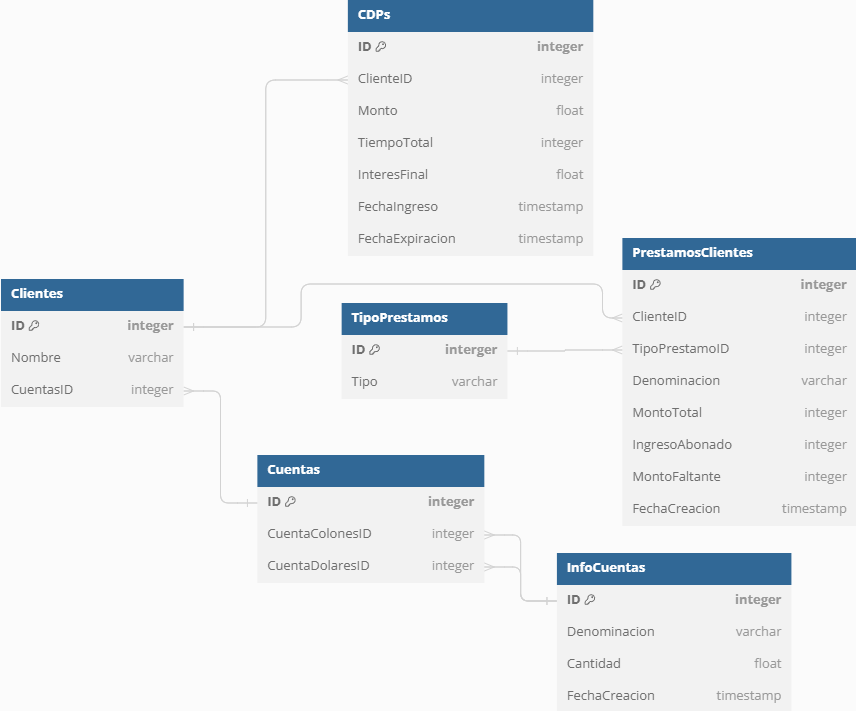
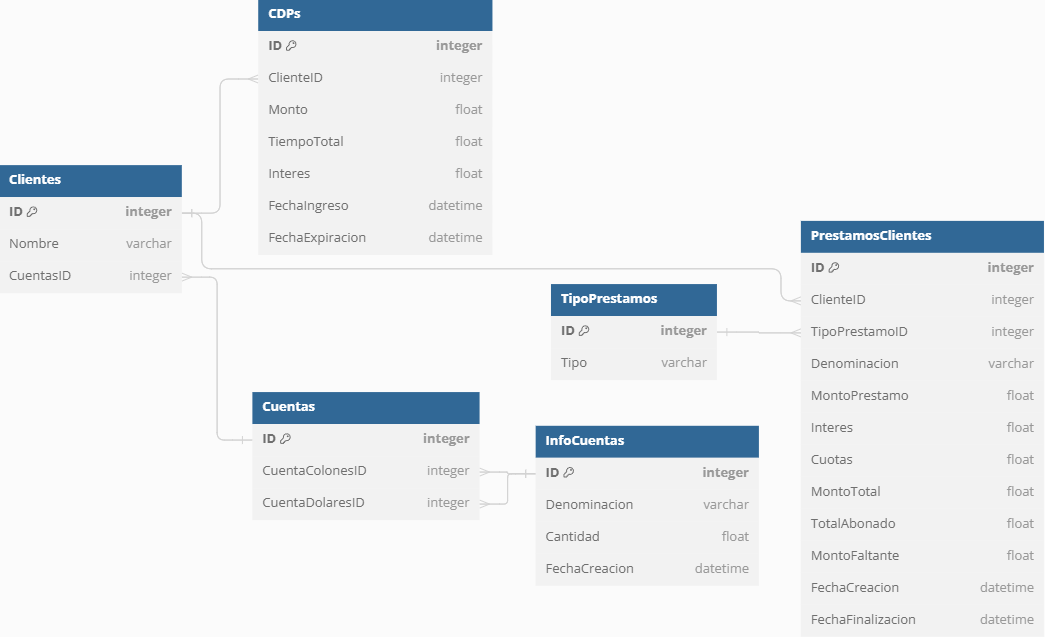
Agregando reacomodo del readme y correccion del esquema de la base de datos

diff --git a/README.md b/README.md
@@ -1,8 +1,6 @@
-# Información teórica
+# Sistema de gestión bancaria
 
-### Título: Sistema de gestión bancaria
-
-#### Resumen de requisitos
+## 1. Resumen de requisitos
 
 Cliente objetivo: Agentes que atienden clientes en un banco.
 
@@ -16,47 +14,39 @@ Cliente objetivo: Agentes que atienden clientes en un banco.
 5.	Registro de transacciones: Registro detallado de todas las transacciones realizadas.
 6.	Identificación de clientes: Único para cada cliente. Entre 0 y 999999999.
 7.	Préstamos asociados: Préstamos asociados, en colones o dólares. Características; tasa de interés, periodo en meses y la cuota mensual.
-8.	Reporte de préstamos: El cliente puede solicitar un reporte de sus préstamos. Se genera un archivo de texto que detalla las cuotas pagadas, desglosando el reporte al capital y los intereses abonados hasta el momento.
+8.	Reporte de préstamos: El cliente puede solicitar un reporte de sus préstamos. Se genera un archivo de texto que detalla las cuotas pagadas, desglosando el aporte al capital y los intereses abonados hasta el momento.
 9.	Almacenamiento de la información: Uso de base de datos SQL.
 
-#### Diagramas generales
 
-Diagramas de las dos principales opciones del programa; atención a clientes y obtener información general.
+## 2. Informacion teorica
 
-<img src="Images/AtencionClientes.png" alt="AtencionClientes" width="500"/>
-
-<img src="Images/InfoGeneral.png" alt="InfoGeneral" width="500"/>
-
-
-#### Informacion teorica
-
-- ¿Para que sirve un sistema de gestion bancaria?
+### ¿Para que sirve un sistema de gestion bancaria?
 
 Un sistema de gestion bancaria permite el manejo de la informacion y solicitudes por lo clientes de forma mas controlada y manteniendo un registro de todos los movimientos.
 
-- ¿Que es un prestamo personal, prendario e hipotecario?
+### ¿Que son un prestamo personal, prendario e hipotecario?
 
 Un prestamo personal es un movimiento financiero en el cual el prestamista (el emisor) entrega una cantidad de dinero al prestatario (el receptor).
 
 Un prestamo prendario es un movimiento igual al de un prestamo personal, pero con la condicion que el prestatario debe brindar uno o varios activos fisicos o financieros como garantia que equivalen a la cantidad del prestamo.
 
-Un prestamos hipotecario es un movimiento igual al de un prestamo personal, pero orientado a la prestacion de dinero para la compra de un inmueble. Este movimiento requiere de la devolucion del dinero en pagos mensuales y con intereses.
+Un prestamo hipotecario es un movimiento igual al de un prestamo personal, pero orientado a la prestacion de dinero para la compra de un inmueble. Este movimiento requiere de la devolucion del dinero en pagos mensuales y con intereses.
 
-- ¿Que son cuotas y tasas de interes?
+### ¿Que son cuotas y tasas de interes?
 
 Las cuotas son un monto periodico en el que una persona paga periodicamente para pagar una deuda, por ejemplo pagos mensuales de un prestamo hipotecario.
 
 Las tasas de interes son un porcentaje de operaciones que se realizan con el dinero. Existen dos tipos; interes por deposito, interes por credito. La tasa de interes por deposito equivale al pago que recibe una persona que deposita el dinero en disposicion de otra persona o entidad, por ejemplo las cuentas de ahorros. La tasa de interes por credito equivale al monto que debe pagar una persona a otra persona o entidad por la prestacion de dinero, por ejemplo los prestamos hipotecarios.
 
-- ¿Que es una cuenta que gestiona ahorros?
+### ¿Que es una cuenta que gestiona ahorros?
 
 Una cuenta que gestiona ahorros es una cuenta que brinda una tasa de interes alta. La condicion para el uso de una cuenta de ahorros es el de ingresar un monto de dinero que no se puede retirar si se quiere obtener la tasa de interes. En caso de retirar el monto antes del periodo de tiempo definido, no se obtendra la tasa de interes.
 
-- ¿Que es un certificado de deposito a plazo?
+### ¿Que es un certificado de deposito a plazo?
 
 Un certificado de deposito a plazo es un tipo de inversion que permite invertir una cantidad de dinero por un periodo de tiempo para obtener un retorno respecto a una tasa de interes alta. Durante este periodo de tiempo no se puede retirar el monto. En caso de entraer el monto, no se obtendra la tasa de interes.
 
-- ¿Que es un deposito, retiro, transferencia, abonos?
+### ¿Que es un deposito, retiro, transferencia y abonos?
 
 Un deposito es un movimiento financiero en el que se envia dinero fisico a una cuenta bancaria.
 
@@ -66,11 +56,11 @@ Una transferencia es un movimiento financiero en el que envia dinero de una cuen
 
 Los abonos es el dinero que se envia como parte de un pago por un bien o servicio.
 
-- ¿Que es una transaccion?
+### ¿Que es una transaccion?
 
 Una transaccion es el flujo financiero reflecado como la creacion, transformacion, intercambio, transferencia o extincion de un valor economico.
 
-- ¿Que es un reporte de prestamos? ¿Que son aporte al capital y los intereses abonados?
+### ¿Que es un reporte de prestamos? ¿Que es el aporte al capital y los intereses abonados?
 
 Un reporte de prestamos o historiual crediticio es un listado de todos los prestamos y abonos a prestamos de un cliente.
 
@@ -78,11 +68,25 @@ El aporte al capital es el abono que se realiza en un prestamo para la reduccion
 
 Los intereses abonados es el abono que se realiza en un prestamo para la reduccion de la tasa de interes generada de la deuda.
 
-#### Esquema de base de datos
+
+## 3. Arquitectura
+
+Diagramas de las dos principales opciones del programa; atención a clientes y obtener información general.
+
+<img src="Images/AtencionClientes.png" alt="AtencionClientes" width="500"/>
+
+<img src="Images/InfoGeneral.png" alt="InfoGeneral" width="500"/>
+
+## 4. Esquema de base de datos
 
 Para el esquema de la base de datos se utiliza un esquema de cinco tablas. La primera tabla llamada 'Clientes' se utilizara para almacenar el ID unico de cada cliente, el nombre y el ID de las cuentas de la tabla 'Cuentas'.
 
-La tabla 'Cuentas' posee un ID identificador unico de la tabla
+La tabla 'Cuentas' posee un ID identificador unico de la tabla y dos columnas de ID's. Una de las dos columnas es el ID de la cuenta en colones y la otra columna es la cuenta en dolares. Estos datos pueden llegar a ser NULL debido a que un cliente puede tener solo una cuenta en colones o solo una cuenta en dolares.
 
+Los ID's de las cuentas en colones y dolares hacen referencia a la tabla 'InfoCuenta' que posee una columna con la denominacion, ya sea 'Colones' o 'Dolares', la cantidad de dinero en la cuenta y la fecha de creacion de la cuenta.
 
 <img src="Images/EsquemaBaseDatos.png" alt="EsquemaBaseDatos" width="700"/>
+
+Por otra parte, tambien se posee una tabla para los CDPs, en el que poseen un ID unico y hacen referencia a la tabla 'Clientes' por medio de la columna 'ClienteID'. Ademas, se posee el monto de dinero que se ingresa al CDP, el tiempo total que se planea ingresar el dinero (3 meses, 6 meses, etc), el interes que se va a obtener, la fecha de creacion del CDP y la fecha de expiracion del mismo.
+
+Para el tema de los prestamos, al igual que los CDPs, se posee una tabla 'PrestamosClientes' que por medio de la columna 'ClienteID' va a hacer referencia al ID de la tabla 'Clientes' para determinar de cual cliente es el prestamo, un cliente puede tener varios prestamos. Ademas, se posee una columna 'TipoPrestamoID' que se relaciona con la tabla 'TipoPrestamos', que este va a poseer los tipos Personal, Prendario e Hipotecario. En la tabla 'PrestamosClientes' tambien se posee la denominacion (ya sea 'Colones' o 'Dolares'), el monto del prestamo, el interes que se debe pagar del prestamo, la cantidad en cuotas mensuales, el monto total tomando en consideracion el interes, el total abonado y el monto faltante.
